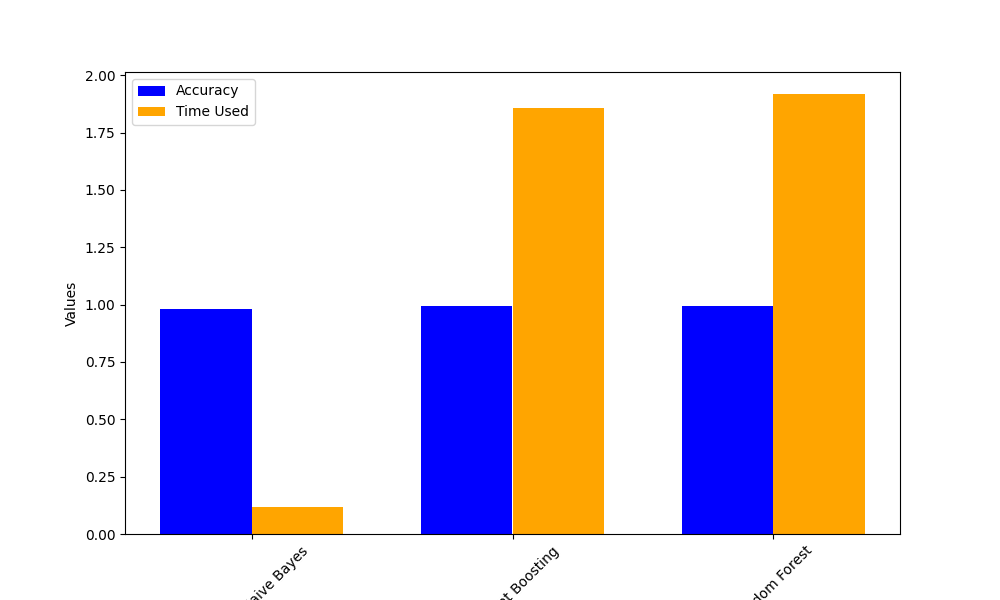
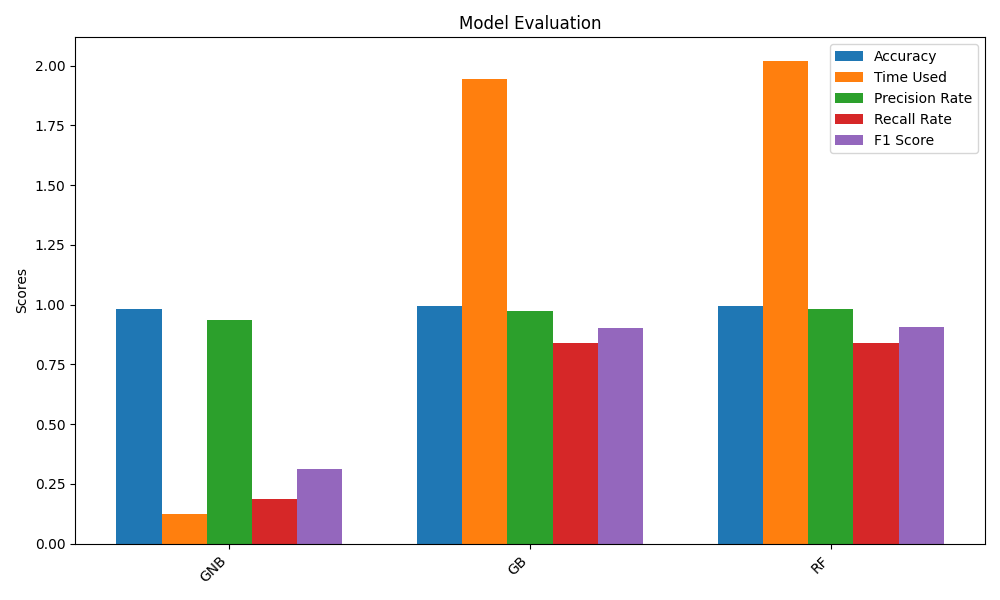
update

diff --git a/Vis/test2.py b/Vis/test2.py
@@ -1,0 +1,137 @@
+import matplotlib.pyplot as plt
+from mpl_toolkits.mplot3d import Axes3D
+
+# 具体数据
+data = [
+    (114456999, 45, 'BENIGN'),
+    (114347504, 56, 'BENIGN'),
+    (36435473, 6, 'BENIGN'),
+    (36434705, 6, 'BENIGN'),
+    (36434626, 6, 'BENIGN'),
+    (3, 2, 'BENIGN'),
+    (2, 2, 'BENIGN'),
+    (2, 2, 'BENIGN'),
+    (114456999, 45, 'BENIGN'),
+    (114347504, 56, 'BENIGN'),
+    (36435473, 6, 'BENIGN'),
+    (36434705, 6, 'BENIGN'),
+    (36434626, 6, 'BENIGN'),
+    (3, 2, 'BENIGN'),
+    (2, 2, 'BENIGN'),
+    (2, 2, 'BENIGN'),
+    (28870362, 5, 'BENIGN'),
+    (118365715, 40, 'Portmap'),
+    (34435249, 6, 'BENIGN'),
+    (34435196, 6, 'BENIGN'),
+    (34425788, 6, 'BENIGN'),
+    (221, 4, 'BENIGN'),
+    (171, 5, 'BENIGN'),
+    (258, 4, 'BENIGN'),
+    (39233, 1, 'BENIGN'),
+    (1, 2, 'BENIGN'),
+    (1, 2, 'BENIGN'),
+    (4, 3, 'BENIGN'),
+    (509, 3, 'BENIGN'),
+    (96, 1, 'BENIGN'),
+    (4, 3, 'BENIGN'),
+    (69, 1, 'BENIGN'),
+    (60, 4, 'BENIGN'),
+    (1, 2, 'BENIGN'),
+    (4, 3, 'BENIGN'),
+    (72, 3, 'BENIGN'),
+    (169805, 4, 'Portmap'),
+    (117049586, 18, 'BENIGN'),
+    (9029034, 6, 'BENIGN'),
+    (110, 4, 'BENIGN'),
+    (2, 2, 'BENIGN'),
+    (932, 5, 'BENIGN'),
+    (61, 1, 'BENIGN'),
+    (196, 4, 'BENIGN'),
+    (126, 4, 'BENIGN'),
+    (1, 2, 'BENIGN'),
+    (1, 2, 'BENIGN'),
+    (4, 3, 'BENIGN'),
+    (99, 1, 'BENIGN'),
+    (4, 3, 'BENIGN'),
+    (91, 1, 'BENIGN'),
+    (155801, 4, 'Portmap'),
+    (1, 2, 'BENIGN'),
+    (135798, 4, 'BENIGN'),
+    (90305, 4, 'Portmap'),
+    (9014948, 6, 'BENIGN'),
+    (163, 2, 'Portmap'),
+    (10226642, 33, 'Portmap'),
+    (998, 1, 'Portmap'),
+    (394087, 1, 'Portmap'),
+    (21046, 2, 'BENIGN'),
+    (65028406, 14, 'BENIGN'),
+    (101748, 4, 'Portmap'),
+    (112297650, 39, 'BENIGN'),
+    (102968, 4, 'Portmap'),
+    (117015302, 40, 'Portmap'),
+    (112958286, 52, 'BENIGN'),
+    (21070, 2, 'BENIGN'),
+    (1643102, 32, 'BENIGN'),
+    (217, 1, 'BENIGN'),
+    (52811, 1, 'BENIGN'),
+    (10927448, 23, 'Portmap'),
+    (150268, 4, 'Portmap'),
+    (15670970, 16, 'BENIGN'),
+    (5384485, 5, 'BENIGN'),
+    (21273, 2, 'BENIGN'),
+    (21275, 2, 'BENIGN'),
+    (21094, 2, 'BENIGN'),
+    (21219, 2, 'BENIGN'),
+    (117468529, 36, 'BENIGN'),
+    (5362515, 5, 'BENIGN'),
+    (119460593, 38, 'BENIGN'),
+    (117470374, 36, 'BENIGN'),
+    (21259, 2, 'BENIGN'),
+    (21261, 2, 'BENIGN'),
+    (21168, 2, 'BENIGN'),
+    (76404152, 38, 'BENIGN'),
+    (21270, 2, 'BENIGN'),
+    (129463, 16, 'BENIGN'),
+    (117188224, 24, 'BENIGN'),
+    (21090, 2, 'BENIGN'),
+    (21100, 2, 'BENIGN'),
+    (21154, 2, 'BENIGN'),
+    (65859, 2, 'BENIGN'),
+    (21086, 2, 'BENIGN'),
+    (21356, 2, 'BENIGN'),
+    (21256, 2, 'BENIGN'),
+    (21374, 2, 'BENIGN'),
+    (21024, 2, 'BENIGN'),
+    (21005, 2, 'BENIGN'),
+    (21131, 2, 'BENIGN'),
+    (21186, 2, 'BENIGN'),
+    (20992, 2, 'BENIGN'),
+    (21078, 2, 'BENIGN'),
+    (21135, 2, 'BENIGN'),
+    (1, 2, 'BENIGN'),
+    (174, 2, 'BENIGN'),
+]
+
+benign_data = [d for d in data if d[2] == 'BENIGN']
+portmap_data = [d for d in data if d[2] == 'Portmap']
+
+benign_x = [d[0] for d in benign_data]
+benign_y = [d[1] for d in benign_data]
+
+portmap_x = [d[0] for d in portmap_data]
+portmap_y = [d[1] for d in portmap_data]
+fig = plt.figure()
+ax = fig.add_subplot(111, projection='3d')
+
+ax.scatter(benign_x, benign_y, zs=0, zdir='z', s=20, c='b', depthshade=True, label='BENIGN')
+ax.scatter(portmap_x, portmap_y, zs=0, zdir='z', s=20, c='r', depthshade=True, label='Portmap')
+
+
+ax.set_xlabel('Flow Duration')
+ax.set_ylabel('Total Fwd Packets')
+ax.set_zlabel('Label')
+ax.set_title('3D Scatter Plot')
+
+plt.legend()
+
+plt.show()

diff --git a/Vis/DataVis3D.py b/Vis/DataVis3D.py
@@ -1,0 +1,41 @@
+import matplotlib.pyplot as plt
+from mpl_toolkits.mplot3d import Axes3D
+
+def DataVis3D(algorithms, accuracies, time_used, precision_rate, recall_rate, f1_score):
+    '''
+    models = ['Gaussian Naive Bayes', 'Gradient Boosting', 'Random Forest']
+    accuracies = [0.979968179, 0.995618039, 0.995774538]
+    times_used = [0.09989119, 1.81551099, 1.84958458]
+    precisions = [0.935483871, 0.975062344, 0.983627204]
+    recalls = [0.187096774, 0.840860215, 0.839784946]
+    f1_scores = [0.311828, 0.903002, 0.906032]
+    '''
+
+    fig = plt.figure(figsize=(12, 10))
+
+    ax = fig.add_subplot(111, projection='3d')
+
+    markers = ['o', '^', 's']
+
+    for i, algorithm in enumerate(algorithms):
+        ax.scatter(accuracies[i], time_used[i], precision_rate[i], 
+                marker=markers[i], 
+                label=algorithm, 
+                facecolors='none', edgecolors='blue')
+
+    for i, algorithm in enumerate(algorithms):
+        offset = -0.002
+        ax.text(accuracies[i], time_used[i] - offset, precision_rate[i] - offset,
+                f"F1: {f1_score[i]:.3f}\nRecall: {recall_rate[i]:.3f}",
+                fontsize=10, ha='center', va='center')
+
+    ax.set_xlabel('Accuracy')
+    ax.set_ylabel('Time Used (seconds)')
+    ax.set_zlabel('Precision Rate')
+
+    ax.legend()
+
+    ax.set_xlim(0.9, 1.0)
+    ax.set_ylim(0, 2.5)
+    ax.set_zlim(0.9, 1.0)
+    plt.show()

diff --git a/Run.py b/Run.py
@@ -2,8 +2,8 @@ import Algorithm.Gaussian_NB as GNB
 import Algorithm.Gradient_Boosting as GB
 import Algorithm.Random_Forest as RF
 import Vis.DataVis as DataVis
-import Vis.AccTime2D as AT2D
-import Vis.AccTime3D as AT3D
+import Vis.DataVis2D as DV2D
+import Vis.DataVis3D as DV3D
 import pandas as pd
 
 from sklearn.naive_bayes import GaussianNB
@@ -27,22 +27,10 @@ pr = [pr_GNB, pr_GB, pr_RF]
 rr = [rr_GNB, rr_GB, rr_RF]
 f1 = [f1_GNB, f1_GB, f1_RF]
 
-AT2D.AccTime2D(algorithms, accuracies, time_used)
+DV2D.DataVis2D(algorithms, accuracies, time_used, pr, rr, f1)
 
-AT3D.AccTime3D(algorithms, accuracies, time_used)
+DV3D.DataVis3D(algorithms, accuracies, time_used, pr, rr, f1)
 
 print("Algorithm\t Accuracy\t\t Time Used\t\t Precision Rate\t\t Recall Rate\t\t F1 Score")
 for i in range(len(algorithms)):
     print(algorithms[i], "\t\t", round(accuracies[i], 10), "\t\t", round(time_used[i], 10), "\t\t", round(pr[i], 10), "\t\t", round(rr[i], 10), "\t\t", round(f1[i], 10))
-
-'''
-model = GaussianNB()
-model.fit(X_train, y_train)
-
-new_features = pd.DataFrame({
-    'Flow Duration': [10000],
-    'Total Fwd Packets': [2]
-})
-
-predicted_data = GNB.predict_ddos_features(model, new_features)
-'''

diff --git a/Vis/DataVis2D.py b/Vis/DataVis2D.py
@@ -1,0 +1,29 @@
+import matplotlib.pyplot as plt
+import numpy as np
+
+def DataVis2D(algorithms, accuracies, time_used, precision_rate, recall_rate, f1_score):
+    '''
+    algorithms = ['Gaussian Naive Bayes', 'Gradient Boosting', 'Random Forest']
+    accuracy = [0.979968179, 0.995618039, 0.995774538]
+    time_used = [0.09989119, 1.81551099, 1.84958458]
+    precision_rate = [0.935483871, 0.975062344, 0.983627204]
+    recall_rate = [0.187096774, 0.840860215, 0.839784946]
+    f1_score = [0.311828, 0.903002, 0.906032]
+    '''
+    # Plot
+    x = np.arange(len(algorithms))
+    width = 0.15
+    fig, ax = plt.subplots(figsize=(10, 6))
+    bar1 = ax.bar(x - 2*width, accuracies, width, label='Accuracy')
+    bar2 = ax.bar(x - width, time_used, width, label='Time Used')
+    bar3 = ax.bar(x, precision_rate, width, label='Precision Rate')
+    bar4 = ax.bar(x + width, recall_rate, width, label='Recall Rate')
+    bar5 = ax.bar(x + 2*width, f1_score, width, label='F1 Score')
+    ax.set_ylabel('Scores')
+    ax.set_title('Model Evaluation')
+    ax.set_xticks(x)
+    ax.set_xticklabels(algorithms)
+    ax.legend()
+    plt.xticks(rotation=45, ha='right')
+    plt.tight_layout()
+    plt.show()

diff --git a/Vis/test.py b/Vis/test.py
@@ -1,0 +1,9 @@
+import matplotlib.pyplot as plt
+
+parameters = ['Flow Duration', 'Total Fwd Packets']
+correlations = [0.3443617391525116, 0.033579691492600455]
+plt.bar(parameters, correlations, color=['blue', 'lightblue'])
+plt.title('Correlation between Parameters and Label')
+plt.xlabel('Parameters')
+plt.ylabel('Correlation Coefficient')
+plt.show()

diff --git a/Algorithm/Gaussian_NB.py b/Algorithm/Gaussian_NB.py
@@ -6,7 +6,7 @@ import numpy as np
 
 import time
 
-def GNB(train, test):
+def GNB(train, test):  
     startGNB = time.time()
 
     data = pd.read_csv(train)
